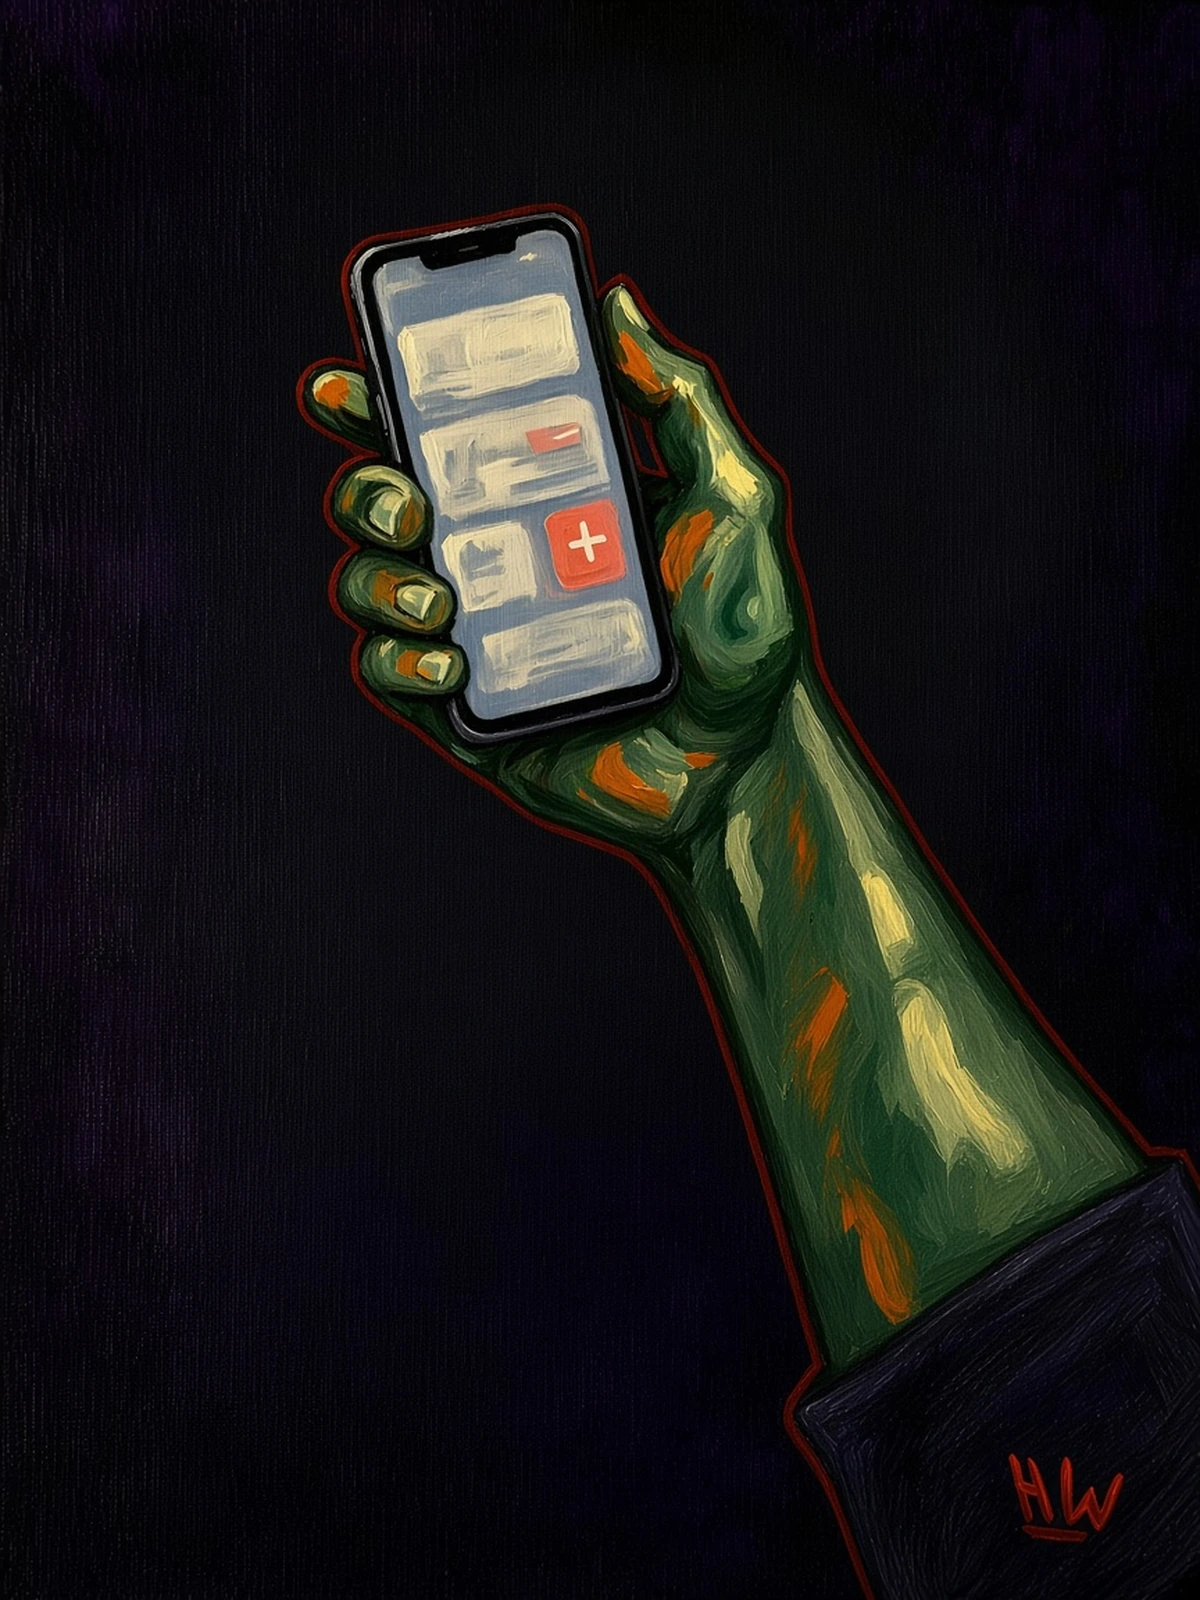
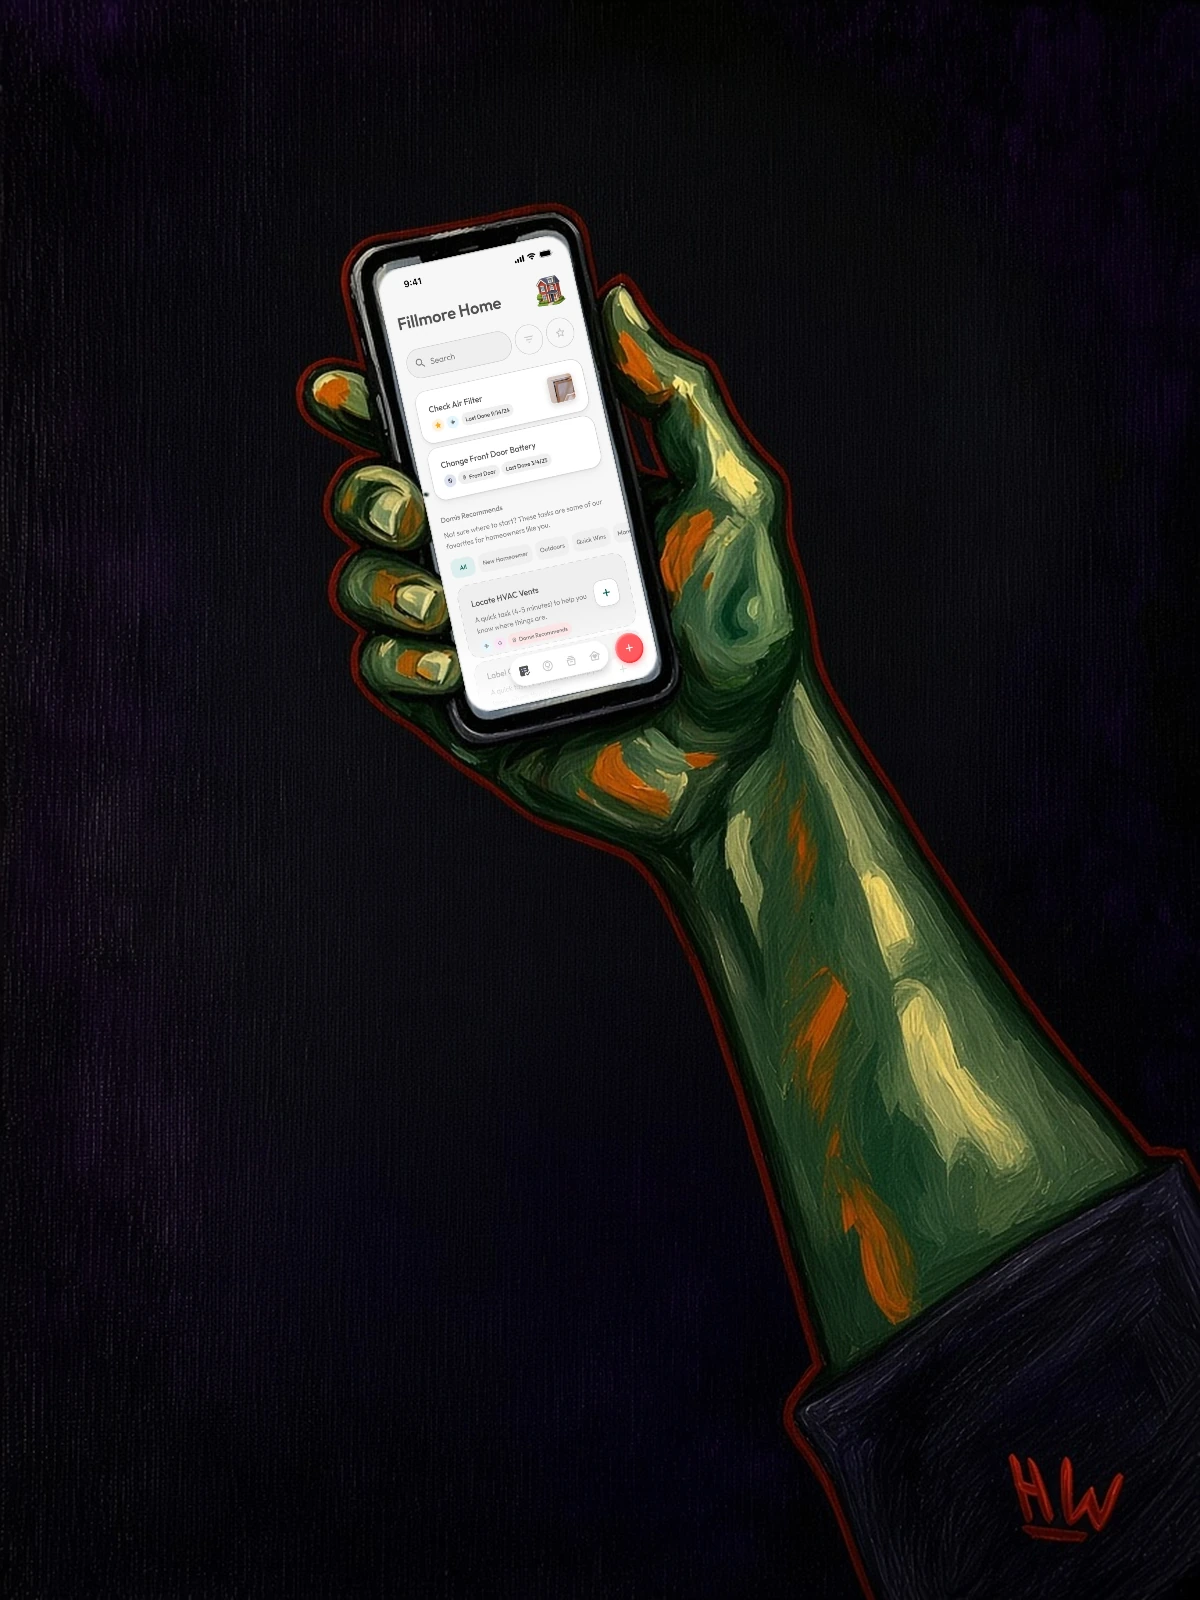
Put the real Domis home-tab screenshot on the painted phone.
The glass is Fillmore Home from the case study, perspective-warped
into the bezel. Fingers and frame stay paint. Pull-back is unchanged.

Changed region(s): [[0.3083, 0.125, 0.555, 0.4688]]

diff --git a/src/data/home-painting-sequence.ts b/src/data/home-painting-sequence.ts
@@ -2,12 +2,14 @@
  * Sequence we are building one increment at a time.
  *
  * Now: Domis only — camera PULLS BACK from the hand+phone to reveal the
- * forearm. Not a crossfade. Obscura is not in this pass.
+ * forearm. Phone glass is the real Domis home-tab screenshot
+ * (`/assets/domis/home-tab-screen.png`), not painted cards.
+ * Not a crossfade. Obscura is not in this pass.
  */
 export const DOMIS_PULLBACK = {
   src: "/assets/home/painting/domis-pullback.webp",
   label: "Domis",
-  alt: "Acrylic painting of a hand holding a phone; camera pulls back along the arm",
+  alt: "Acrylic painting of a hand holding a phone showing the Domis home tab",
   /**
    * Start crop as fractions of the plate (3:4). Camera interpolates this
    * rectangle to the full painting.

diff --git a/src/components/home/HomePage.tsx b/src/components/home/HomePage.tsx
@@ -24,7 +24,7 @@ import { RevealOnLoad } from "./RevealOnLoad";
 import { useHomeLayoutMode } from "@/hooks/useHomeLayoutMode";
 import type { HomeLayoutMode } from "@/lib/home-layout";
 
-const SITE_VERSION = "v3.9.3";
+const SITE_VERSION = "v3.9.4";
 
 const WafflingsSection = dynamic(
   () => import("./WafflingsSection").then((m) => m.WafflingsSection),
